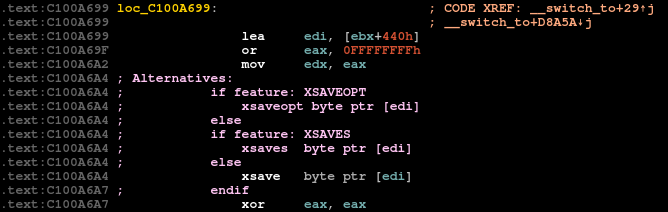
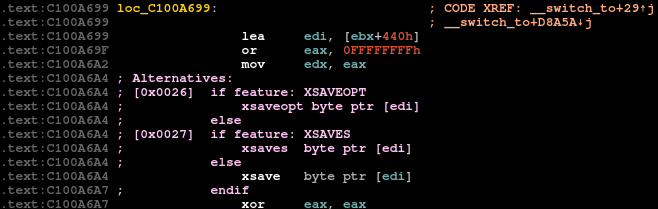
Mark each alternative entry with in-order index value
This helps identify and associate each alternative entry with
their applied comment as well as reason about order the alternatives
are applied when widget window table is sorted.

diff --git a/linux_alternatives.py b/linux_alternatives.py
@@ -155,7 +155,7 @@ class Alternatives_viewer_t(PluginForm):
         self.parent.setLayout(layout)
 
     def jumpto(self, row, column):
-        jumpto(int(self.table.item(row, column).text(), 16))
+        jumpto(int(self.table.item(row, max(column, 1)).text(), 16))
 
     def OnClose(self, form):
         self.alternatives = None
@@ -495,10 +495,12 @@ class Alternative_generator_t(object):
         return ["%s%s%s" % (opcodes, " " * (max_opcodes - len(opcodes)), line) for opcodes, line in lines]
 
     def _gen_replacement_line(self, row, processed_alternatives, indent=1):
-        instr_ea, repl_ea, flag_str, instr_len, repl_len = row[:5]
+        index, instr_ea, repl_ea, flag_str, instr_len, repl_len = row[:6]
         line = []
 
-        line.append("%sif feature: %s" % (get_indent(4) * indent, flag_str))
+        index_str = "[0x%04x]" % index
+        indent_str = get_indent(4 + len(index_str)) * indent
+        line.append("%s%sif feature: %s" % (index_str, indent_str, flag_str))
 
         # Not just NOPs
         if repl_len != 0:
@@ -517,8 +519,7 @@ class Alternative_generator_t(object):
         return line
 
     def add_alternatives_cmts(self, row, processed_alternatives):
-        ea = row[0]
-        size = row[3]
+        ea, size = row[1], row[4]
         line = []
 
         if ea not in processed_alternatives:
@@ -557,6 +558,7 @@ class Alternative_generator_t(object):
 
         metadata = self.alt_instr_struct.get_struct_metadata()
 
+        index = 0
         processed_alternatives = {}
         for ea in range(alt_instr_seg.start_ea, alt_instr_seg.end_ea, self.alt_instr_struct.size):
             vinstr_ea, vrepl_ea, cpuid, instr_len, repl_len, padlens = self._get_alternative_row(ea, metadata)
@@ -575,7 +577,8 @@ class Alternative_generator_t(object):
             if repl_len > 0:
                 add_data_xref(vinstr_ea, vrepl_ea)
 
-            row = [vinstr_ea, vrepl_ea, flag_str, instr_len, repl_len] + padlens
+            row = [index, vinstr_ea, vrepl_ea, flag_str, instr_len, repl_len] + padlens
+            index += 1
 
             cb(row, processed_alternatives)
 
@@ -642,7 +645,7 @@ class Patch_input_t(ida_kernwin.action_handler_t):
         self.alt_gen.gen_alternatives(self.patch_rows, patch_features)
 
     def patch_rows(self, row, processed_alternatives):
-        instr_ea, repl_ea, flag_str, instr_len, repl_len = row[:5]
+        instr_ea, repl_ea, flag_str, instr_len, repl_len = row[1:6]
 
         repl_bytes = get_bytes(repl_ea, repl_len) if repl_len > 0 else  b''
         repl_bytes = self._recompute_branches(repl_bytes, instr_ea, repl_ea, instr_len, repl_len)
@@ -774,7 +777,8 @@ class Linux_alternatives_t(plugin_t):
         alternatives = alt_gen.gen_alternatives(alt_gen.add_alternatives_cmts)
         self._register_remove_action()
 
-        self.alternatives["header"] = [name for name, _, _ in self.alt_instr_struct.get_struct_metadata()]
+        self.alternatives["header"] = ["index"]
+        self.alternatives["header"] += [name for name, _, _ in self.alt_instr_struct.get_struct_metadata()]
         for _, rows in alternatives.items():
             for row in rows:
                 self.alternatives["rows"].append(row)
@@ -796,8 +800,10 @@ class Linux_alternatives_t(plugin_t):
     def _reset_alternatives(self):
         # Remove applied alternatives comments
         for row in self.alternatives.get("rows", []):
-            delete_extra_cmts(row[0], E_PREV)
-            delete_extra_cmts(row[0] + row[3], E_PREV)
+            ea, size = row[1], row[4]
+
+            delete_extra_cmts(ea, E_PREV)
+            delete_extra_cmts(ea + size, E_PREV)
 
         self.alternatives["header"] = []
         self.alternatives["rows"] = []
